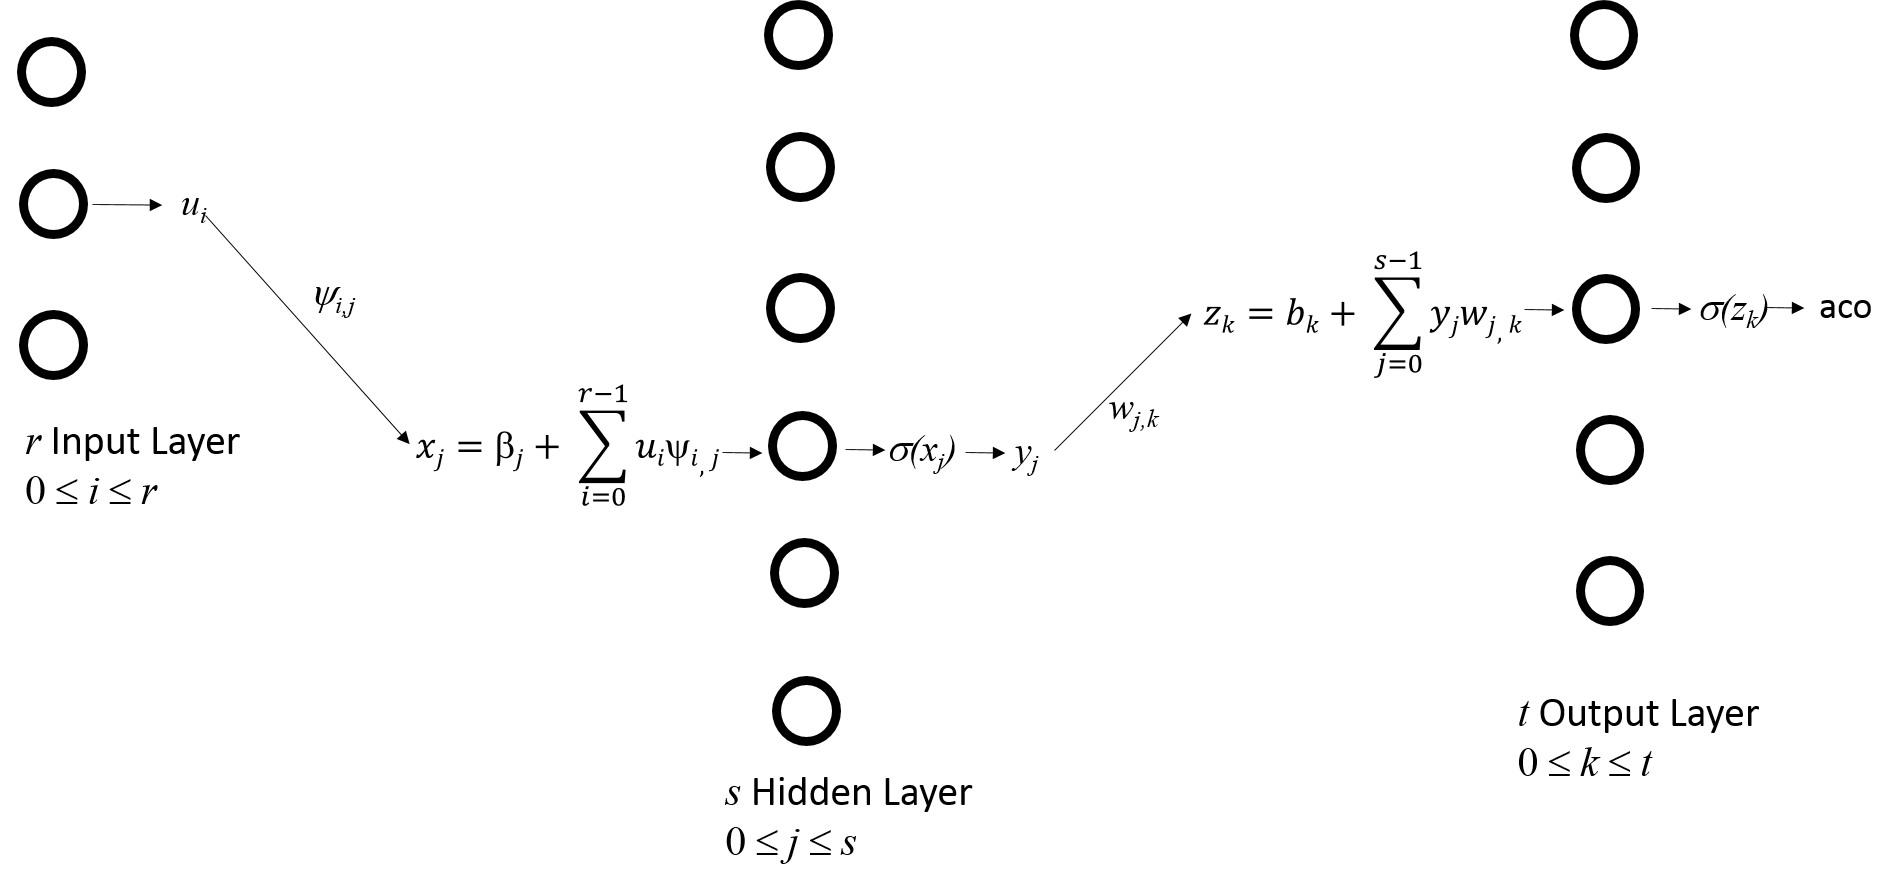
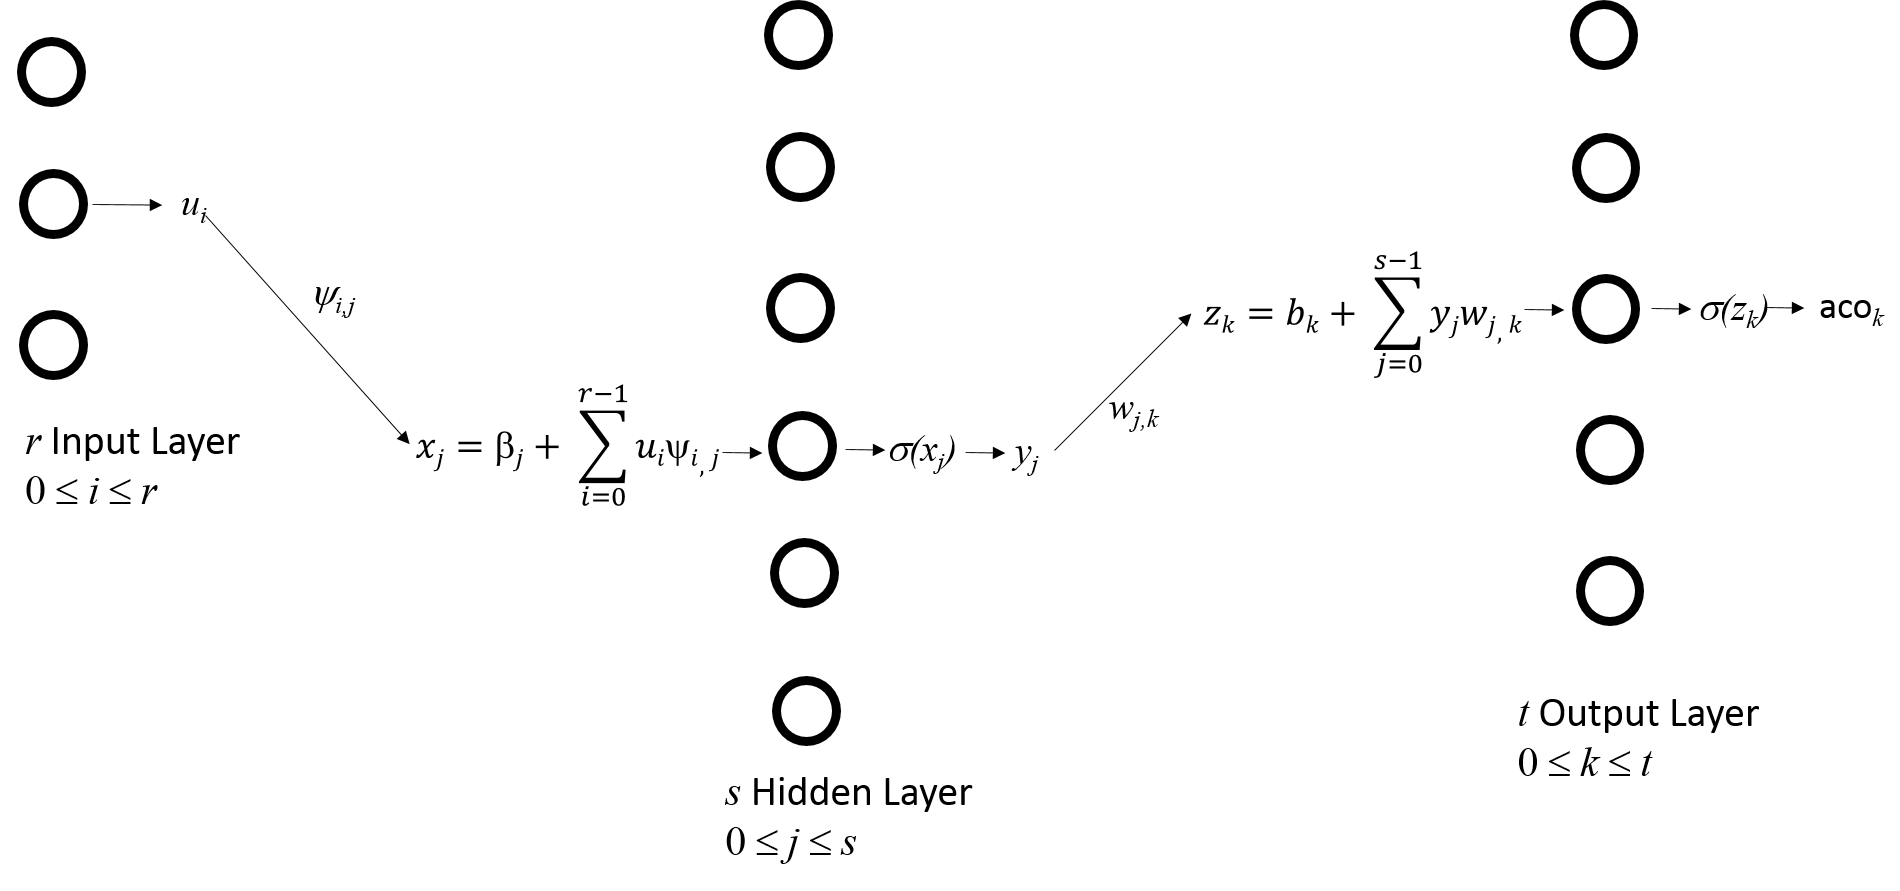
correction of the equations

diff --git a/source/supervised/chapter_gradient.rst b/source/supervised/chapter_gradient.rst
@@ -734,10 +734,10 @@ When the actual outputs are different from the expected outputs, the
 difference is called the *error*, usually expressed as :math:`E`.
 Consider the following definition of error:
 
-:math:`E = \underset{i=1}{\overset{k}{\sum}} \frac{1}{2} (exv_i - aco_i)^2`,
+:math:`E = \underset{k=0}{\overset{t-1}{\sum}} \frac{1}{2} (exv_k - aco_k)^2`,
 
-Here :math:`exv_i` is the expect value and :math:`aco_i` is the actual
-output of the :math:`i^{th}` neuron (among :math:`k` neurons).  This
+Here :math:`exv_k` is the expect value and :math:`aco_k` is the actual
+output of the :math:`k^{th}` neuron (among :math:`t` neurons).  This
 definition adds the squares of errors from all output neurons. Do not
 worry about the constant :math:`\frac{1}{2}` because it is for
 convenience here.  It will be cancelled later.
@@ -790,28 +790,63 @@ Next, we calculate :math:`f'(x) = 3` and :math:`g'(x) = 2 x + 2`.
 Error and Weights between Output and Hidden Layers
 """"""""""""""""""""""""""""""""""""""""""""""""""
 
-.. figure:: gradient/figures/hiddenoutput.png
+.. figure:: gradient/figures/threelayers.png
 
-	    Graphical representations of the symbols between the hidden and the output layers
+	    Definitions of the symbols
+
 
       
 Symbols and their meanings:
 
-+-------------------+----------------------------------------------------------+
-| symbol            | meaning                                                  |
-+===================+==========================================================+
-| :math:`w_i`       | weight to adjust                                         |
-+-------------------+----------------------------------------------------------+
-| :math:`y_i`       | value from the hidden layer multiplied with :math:`w_i`  |
-+-------------------+----------------------------------------------------------+
-| :math:`aco`       | actual output                                            |
-+-------------------+----------------------------------------------------------+
-| :math:`\eta`      | learning rate                                            |
-+-------------------+----------------------------------------------------------+
-| :math:`exv`       | expected value                                           |
-+-------------------+----------------------------------------------------------+
++-------------------+-----------------------------------------------------------------+
+| symbol            | meaning                                                         |
++===================+=================================================================+
+| :math:`r`         | number of neurons in the input layer                            |
++-------------------+-----------------------------------------------------------------+
+| :math:`s`         | number of neurons in the hidden layer                           |
++-------------------+-----------------------------------------------------------------+
+| :math:`t`         | number of neurons in the output layer                           |
++-------------------+-----------------------------------------------------------------+
+| :math:`i`         | index of a neuron in the input layer :math:`0 \le i < r`        |
++-------------------+-----------------------------------------------------------------+
+| :math:`j`         | index of a neuron in the hidden layer :math:`0 \le j < s`       |
++-------------------+-----------------------------------------------------------------+
+| :math:`k`         | index of a neuron in the output layer :math:`0 \le k < t`       |
++-------------------+-----------------------------------------------------------------+
+| :math:`\beta_j`   | bias of the :math:`j^{th}` neuron in the hidden layer           |
++-------------------+-----------------------------------------------------------------+
+| :math:`b_k`       | bias of the :math:`k^{th}` neuron in the output layer           |
++-------------------+-----------------------------------------------------------------+
+| :math:`u_i`       | input to the :math:`i^{th}` neuron in the input layer           |
++-------------------+-----------------------------------------------------------------+
+| :math:`x_j`       | input to the :math:`j^{th}` neuron in the hidden layer          |
++-------------------+-----------------------------------------------------------------+
+| :math:`y_j`       | output of the :math:`j^{th}` neuron in the hidden layer         |
++-------------------+-----------------------------------------------------------------+
+| :math:`z_k`       | input to the :math:`k^{th}` neuron in the output layer          |
++-------------------+-----------------------------------------------------------------+
+| :math:`aco_k`     | output of the :math:`k^{th}` neuron in the output layer         |
++-------------------+-----------------------------------------------------------------+
+| :math:`exv_k`     | expected value of the :math:`k^{th}` neuron in the output layer |
++-------------------+-----------------------------------------------------------------+
+|:math:`\psi_{i,j}` | weight connecting the :math:`i^{th}` and :math:`j^{th}` neurons |
++-------------------+-----------------------------------------------------------------+
+|:math:`w_{j, k}`   | weight connecting the :math:`j^{th}` and :math:`k^{th}` neurons |
++-------------------+-----------------------------------------------------------------+
+| :math:`\eta`      | learning rate                                                   |
++-------------------+-----------------------------------------------------------------+
 
+Here are the equations expressing the relationships among these terms:
 
+:math:`E = \underset{k=0}{\overset{t-1}{\sum}} \frac{1}{2} (aco_k - exv_k)^2`,
+
+:math:`aco_k = \sigma(z_k)`
+
+:math:`z_k = b_k + \underset{j=0}{\overset{s-1}{\sum}} y_j w_{j,k}`
+
+:math:`y_j = \sigma(x_j)`
+
+:math:`x_j = \beta_j + \underset{i=0}{\overset{r-1}{\sum}} u_i \psi_{i,j}`      
 
 Now, we can apply the chain rule to calculate the relationship between
 the error and a weight.  Consider the output of a particular
@@ -822,56 +857,52 @@ zero. Thus, we can ignore :math:`\frac{\partial exv}{\partial
 w}`. Instead, we need to worry about only the relationship between the
 actual output :math:`aco` and a weight :math:`w`.
 
-:math:`\frac{\partial E}{\partial w} = \frac{\partial E}{\partial aco} \frac{\partial aco}{\partial w}`
+:math:`\frac{\partial E}{\partial w_{j,k}} = \frac{\partial E}{\partial aco_k} \frac{\partial aco_k}{\partial w_{j,k}}`
 
-:math:`\frac{\partial E}{\partial aco} = \frac{\partial}{\partial aco}  \frac{1}{2} (exv - aco) ^ 2= (aco - exv)`.
+:math:`\frac{\partial E}{\partial aco_k} = (aco_k - exv_k)`, because
+:math:`aco_k` does not depend on any other neuron in the output layer.
 
 As you can see, the constant :math:`\frac{1}{2}` has been cancelled.
 
-How is the output calculated? It is the *sigmoid* function's output of
-the sum of products of weights and the previous layer, plus the bias:
-
-:math:`aco = \sigma(z)`,
-
-:math:`z = b + \underset{k = 0}{\overset{n-1}{\Sigma}} y_k w_k`,
-
-here, :math:`n` is the number of neurons from the previous layer (the
-hidden layer).
-
 Applying the chain rule again:
 
-:math:`\frac{\partial aco}{\partial w} = \frac{\partial aco}{\partial z} \frac{\partial z}{\partial w}`.
+:math:`\frac{\partial aco_k}{\partial w_{j,k}} = \frac{\partial aco_k}{\partial z_k} \frac{\partial z_k}{\partial w_{j,k}}`.
 
 As explained earlier,
-:math:`\frac{\partial aco}{\partial z} = \sigma(z)(1 - \sigma(z)) = aco (1 - aco)`.
+:math:`\frac{\partial aco_k}{\partial z_k} = \sigma(z_k)(1 - \sigma(z_k)) = aco _k(1 - aco_k)`.
 
-For a particular weight :math:`w_i`, :math:`\frac{\partial}{\partial w}
-(b + \underset{k = 0}{\overset{n-1}{\Sigma}} y_k w_k) = y_i`.
+:math:`\frac{\partial z_k}{\partial w_{j,k}} = y_j`.
 
 Now, we can put everything together:
 
-:math:`\frac{\partial E}{\partial w_i} = (aco - exv) aco (1 - aco) y_i`.
+:math:`\frac{\partial E}{\partial w_{j,k}} = (aco_k - exv_k) aco_k (1 - aco_k) y_{j,k}`.
 
 Using gradient descent, we want to change the weight
 
-:math:`\Delta w_i = - \eta \frac{\partial E}{\partial w_i} = - \eta (aco - exv) aco (1 - aco) y_i`.
+:math:`\Delta w_{j,k} = - \eta \frac{\partial E}{\partial w_{j,k}} = - \eta (aco_k - exv_k) aco_k (1 - aco_k) y_j`.
 
 Similarly,
 
-:math:`\frac{\partial E}{\partial b} = (aco - exv) aco (1 - aco)`.
+:math:`\frac{\partial E}{\partial b_k} = (aco_k - exv_k) aco_k (1 - aco_k)`.
 
 To change the bias:
 
-:math:`\Delta b = - \eta \frac{\partial E}{\partial b} = - \eta (aco - exv) aco (1 - aco)`.
+:math:`\Delta b_k = - \eta \frac{\partial E}{\partial b_k} = - \eta (aco_k - exv_k) aco_k (1 - aco_k)`.
 
 
 
 Error and Weights between Hidden and Input Layers
 """""""""""""""""""""""""""""""""""""""""""""""""
 
+Next, we adjust the weights between the input and the hidden layer.
 The problem of the hidden layer is that we do not have expected values
 for the neurons. Instead, we must rely on the expected values at the
-output layer.
+output layer.  This is called *back propagation*: propagating the
+expected values from the output layer to the hidden layer in order to
+adjust the weights.  Consider the weight :math:`\psi_{i,j}` between
+the :math:`i^{th}` neuron of the input layer and the :math:`j^{th}`
+neuron in the hidden layer.  This weight may affect every neuron in
+the output layer.
 
 Continue from the previous derivation, the output of the neuron
 :math:`y_i` depends on the values of the input layer, the weights
@@ -879,56 +910,44 @@ between the input layer and the hidden layer, and the bias.  To avoid
 confusion, here :math:`\psi`, instead of :math:`w`, is used to
 express the weight between the input and the hidden layer.
 
-:math:`y_i = \sigma(x_i)`,
-
-and
-
-:math:`x_i = b_i + \underset{j = 0}{\overset{m-1}{\Sigma}} t_j \psi_j`,
-
-here, :math:`m` is the number of neurons in the input layer and
-:math:`t_j` is the input to a particular neuron.
-
-
-.. figure:: gradient/figures/inputhidden.png
-
-	    Graphical representations of the symbols of the input and the hidden layers
 
 How does the weight :math:`\psi_j` affects the error? We can apply the chain rule again:
 
-:math:`\frac{\partial E}{\partial \psi_j} = \frac{\partial E}{\partial x_i} \frac{\partial x_i}{\partial \psi_j}`.
-
-:math:`\frac{\partial x_i}{\partial \psi_j} = t_j`; this is easy.
-
-How about :math:`\frac{\partial E}{\partial x_i}`?
-
-We  apply the chair rule again:
-
-:math:`\frac{\partial E}{\partial x_i} = \frac{\partial E}{\partial y_i} \frac{\partial y_i}{\partial x_i}`.
-
-:math:`\frac{\partial y_i}{\partial x_i} = \frac{\partial}{\partial x_i} \sigma(x_i) = \sigma(x_i) (1 - \sigma(x_i)) = y_i (1 - y_i)`.
-
-Apply the chain rule and we can get :math:`\frac{\partial E}{\partial
-y_i} = \frac{\partial E}{\partial aco} \frac{\partial aco}{\partial
-y_i} = (aco - exv) aco (1 - aco)`.
-
-So far we consider only neuron in the hidden layer. This neuron can
-affect the output of every neuron in the output layer.  Remember that
-the error function is defined as the sum of squares of the difference
-between the expected value and the actual value of each output neuron.
+:math:`\frac{\partial E}{\partial \psi_{i,j}} = \frac{\partial
+}{\partial \psi_{i,j}} \underset{k=0}{\overset{t-1}{\sum}} \frac{1}{2}
+(aco_k - exv_k)^2 = \underset{k=0}{\overset{t-1}{\sum}} (aco_k -
+exv_k) \frac{\partial aco_k}{\partial \psi_{i,j}}`
       
-Putting everything together:
+Our next step is to calculate :math:`\frac{\partial aco_k}{\partial \psi_{i,j}}`
 
-:math:`\frac{\partial E}{\partial \psi_j} = t_j y_i (1 - y_i) (aco - exv) aco (1 - aco)`.
+We can apply the chair rule again:
+
+:math:`\frac{\partial aco_k}{\partial \psi_{i,j}} = \frac{\partial
+aco_k}{\partial z_k} \frac{\partial z_k}{\partial \psi_{i,j}} = aco_k
+(1 - aco_k) \frac{\partial z_k}{\partial \psi_{i,j}}`
+
+:math:`\frac{\partial z_k}{\partial \psi_{i,j}} = \frac{\partial      z_k}{\partial y_j} \frac{\partial y_j}{\partial \psi_{i,j}} =      w_{j, k} \frac{\partial y_j}{\partial \psi_{i,j}}`
+
+Apply the chain rule and we can get
+
+:math:`\frac{\partial y_j}{\partial \psi_{i,j}} = \frac{\partial y_j}{\partial x_j} \frac{\partial x_j}{\partial \psi_{i,j}} = y_j (1 - y_j) \frac{\partial x_j}{\partial \psi_{i,j}}`
+
+Finally,
+:math:`\frac{\partial x_j}{\partial \psi_{i,j}} = u_i`.
+
+Put everything together:
+
+:math:`\frac{\partial E}{\partial \psi_{i,j}} = \underset{k=0}{\overset{t-1}{\sum}} (aco_k - exv_k)  aco_k (1 - aco_k)  w_{j, k} y_j (1 - y_j) u_i`
+
 
 Using gradient descent, we want to change the weight
    
 
-:math:`\Delta \psi_j = -\eta t_j y_i (1 - y_i) (aco - exv) aco (1 - aco)`.
+:math:`\Delta \psi_{i,j} = -\eta \underset{k=0}{\overset{t-1}{\sum}} (aco_k - exv_k)  aco_k (1 - aco_k)  w_{j, k} y_j (1 - y_j) u_i`
 
 Similarly,
 
-:math:`\Delta b_i = -\eta y_i (1 - y_i) (aco - exv) aco (1 - aco)`.
-
+:math:`\Delta \beta_j = -\eta \underset{k=0}{\overset{t-1}{\sum}} (aco_k - exv_k)  aco_k (1 - aco_k)  w_{j, k} y_j (1 - y_j)`.
 
       
 
